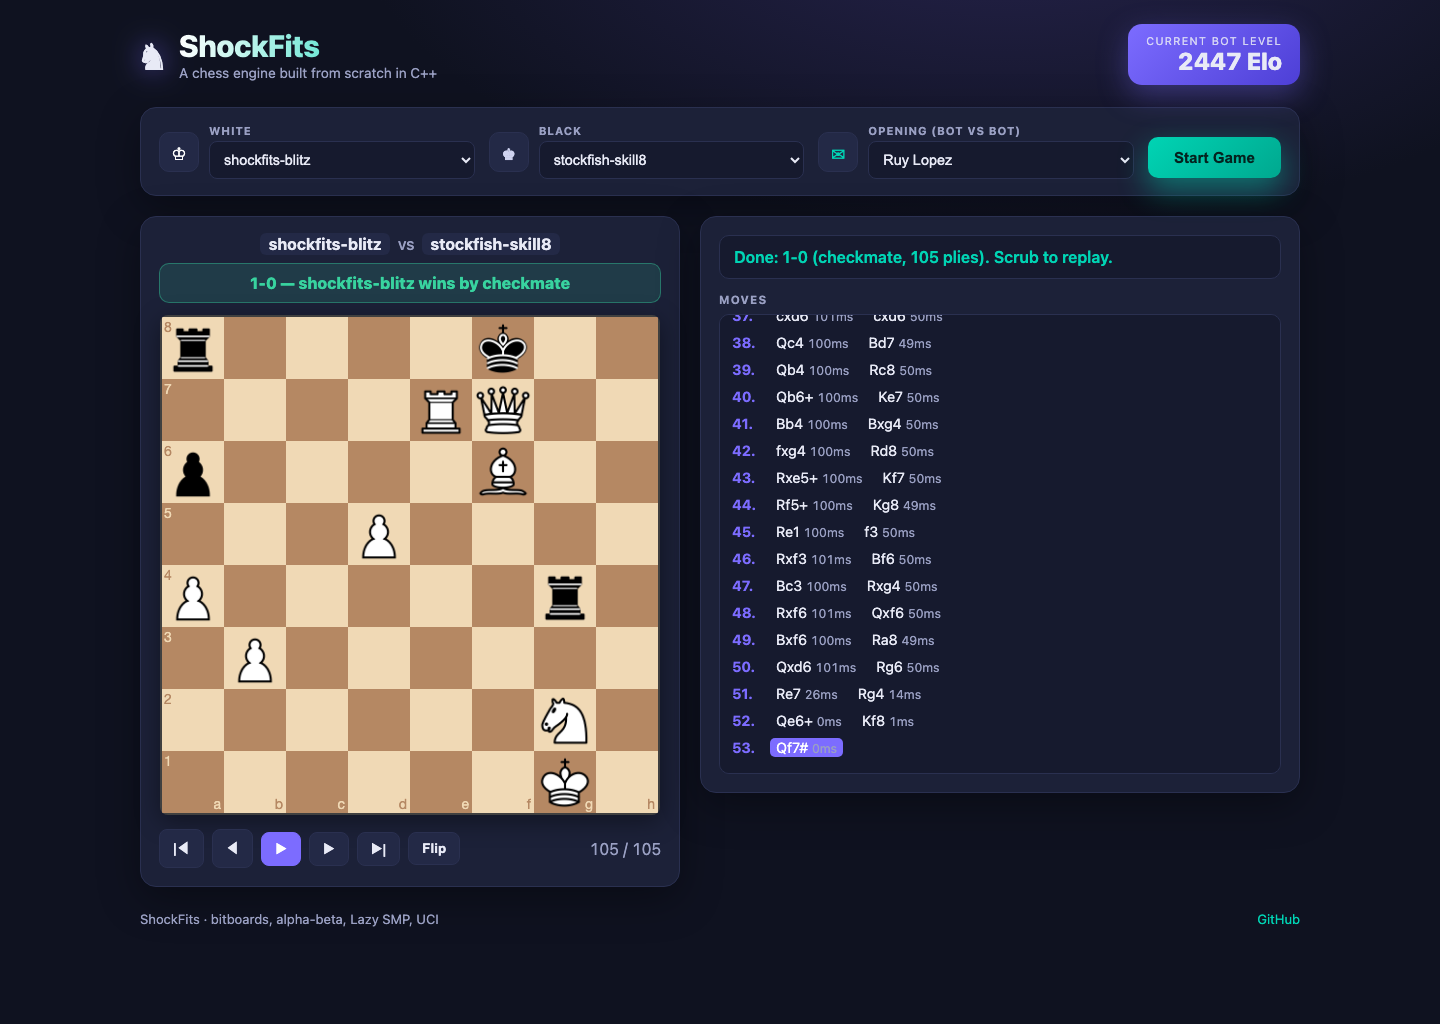
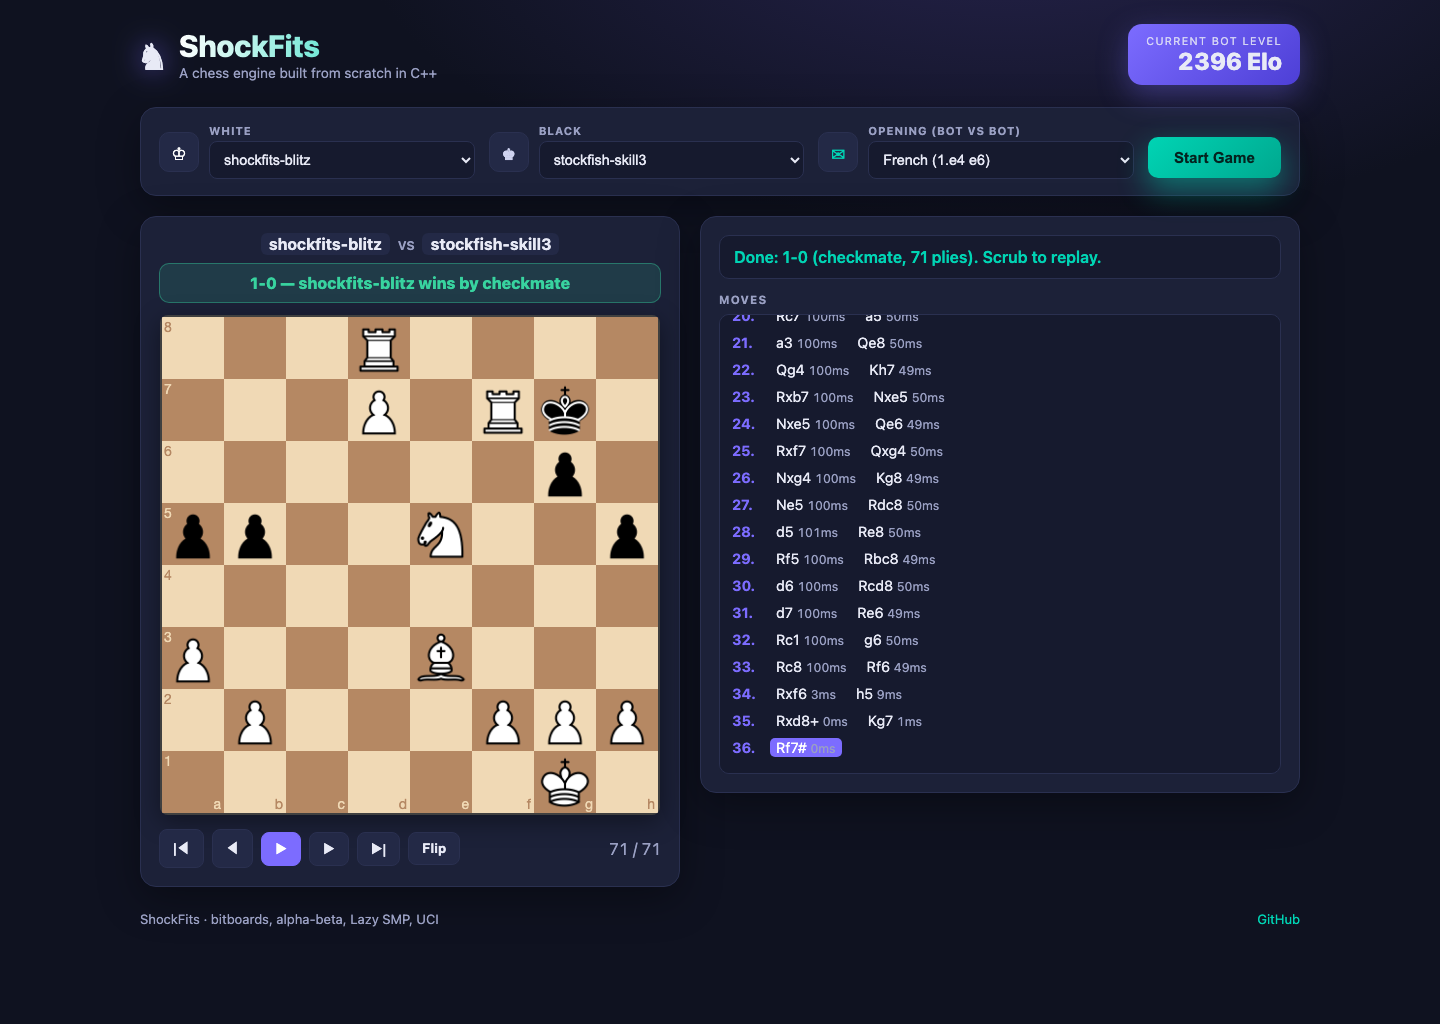
docs: tighter Elo (~2400, 20 games/rung) + refreshed win screenshot
20-games/rung calibration gives a clean monotonic ladder: perf 2396, 50%
crossover exactly at Stockfish 2400. README header + ladder + screenshot
(now 2396 badge, blitz mates stockfish-skill3) updated.

diff --git a/Readme.md b/Readme.md
@@ -2,15 +2,15 @@
 
 [![CI](https://github.com/GaganMishra305/ShockFits/actions/workflows/ci.yml/badge.svg)](https://github.com/GaganMishra305/ShockFits/actions/workflows/ci.yml)
 
-### Current bot level: ~2450 Elo
+### Current bot level: ~2400 Elo
 
 *(performance rating for `shockfits-blitz` at 100 ms/move, measured vs Stockfish
 with calibrated `UCI_Elo` — see [Measuring strength](#measuring-strength-elo).)*
 
-![ShockFits arena — shockfits-blitz checkmates Stockfish (skill 8)](docs/arena.png)
+![ShockFits arena — shockfits-blitz checkmates Stockfish](docs/arena.png)
 
 *The browser arena: watch bots fight live (with per-move think times), then scrub
-the replay. Above, `shockfits-blitz` mates `stockfish-skill8`.*
+the replay. Above, `shockfits-blitz` mates `stockfish-skill3`.*
 
 A chess engine built **from scratch in C++** — bitboards, alpha-beta search,
 a lock-free transposition table, Lazy-SMP multithreading, and the UCI protocol —
@@ -92,22 +92,22 @@ cd web && npm install && npm start   # http://localhost:3000
 number means *strength at that time control*). Each rung yields a score rate; the
 headline is a games-weighted **performance rating**.
 
-Latest run — `shockfits-blitz` @ 100 ms/move (6 games/rung):
+Latest run — `shockfits-blitz` @ 100 ms/move (20 games/rung):
 
 | Stockfish `UCI_Elo` | Score | Perf |
 |---:|---:|---:|
-| 1800 | 67% | 1920 |
-| 2100 | 58% | 2158 |
-| 2400 | 75% | 2591 |
-| 2700 | 58% | 2758 |
-| 3000 | 25% | 2809 |
+| 1800 | 80% | 2041 |
+| 2100 | 65% | 2208 |
+| 2400 | 50% | 2400 |
+| 2700 | 32% | 2573 |
+| 3000 | 20% | 2759 |
 
-**Performance estimate: ~2447 Elo** (50% crossover ≈ 2775).
+**Performance estimate: ~2396 Elo**, and the 50% crossover lands right on
+Stockfish 2400 — the two methods agree, so **~2400 Elo** is the headline.
 
-> Caveats: small samples (6 games/rung, so ±100+ Elo noise), fast time control,
-> and Stockfish's `UCI_Elo` is itself an approximation. Treat this as a ballpark
-> "it plays around 2400-2500 blitz strength," not a rating-list number. Re-run
-> with more games for tighter bounds.
+> Caveats: fast time control, and Stockfish's `UCI_Elo` is itself an
+> approximation, so read this as "plays around 2400 blitz strength," not a
+> rating-list number. Re-run `calibrate` with more games/rung to tighten further.
 
 ---
 
